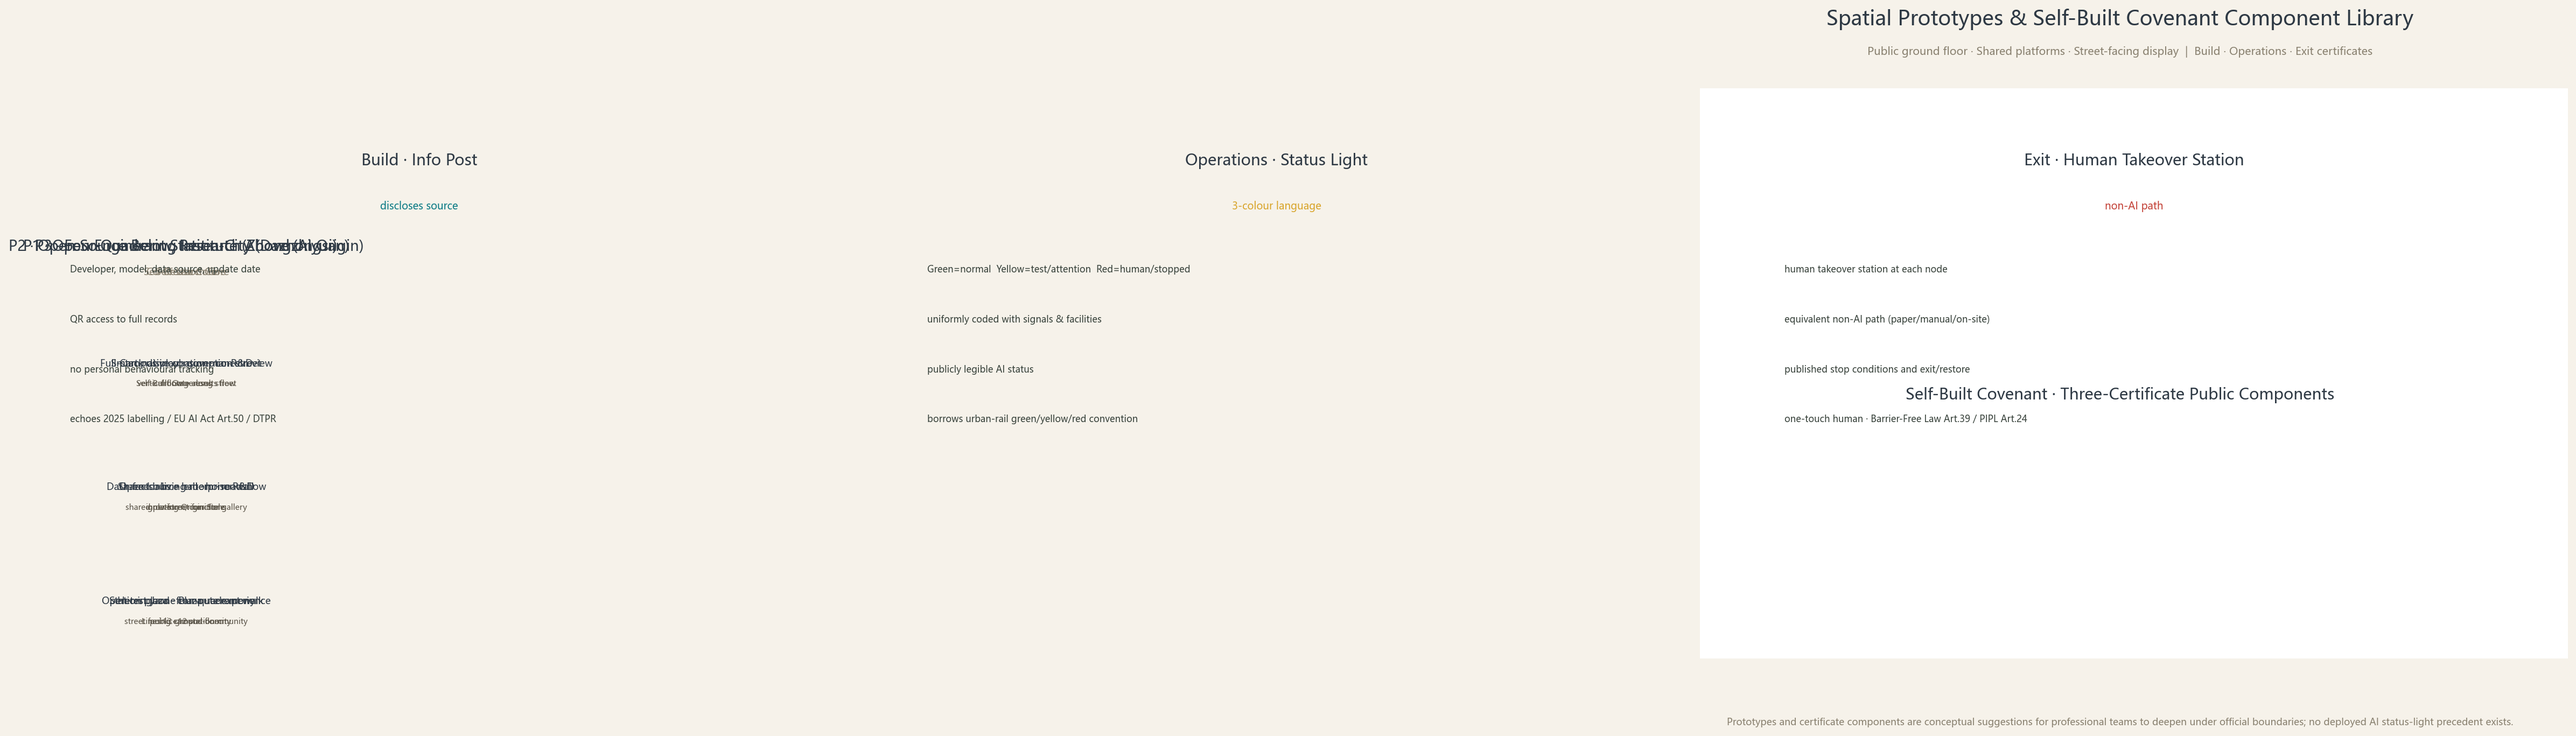
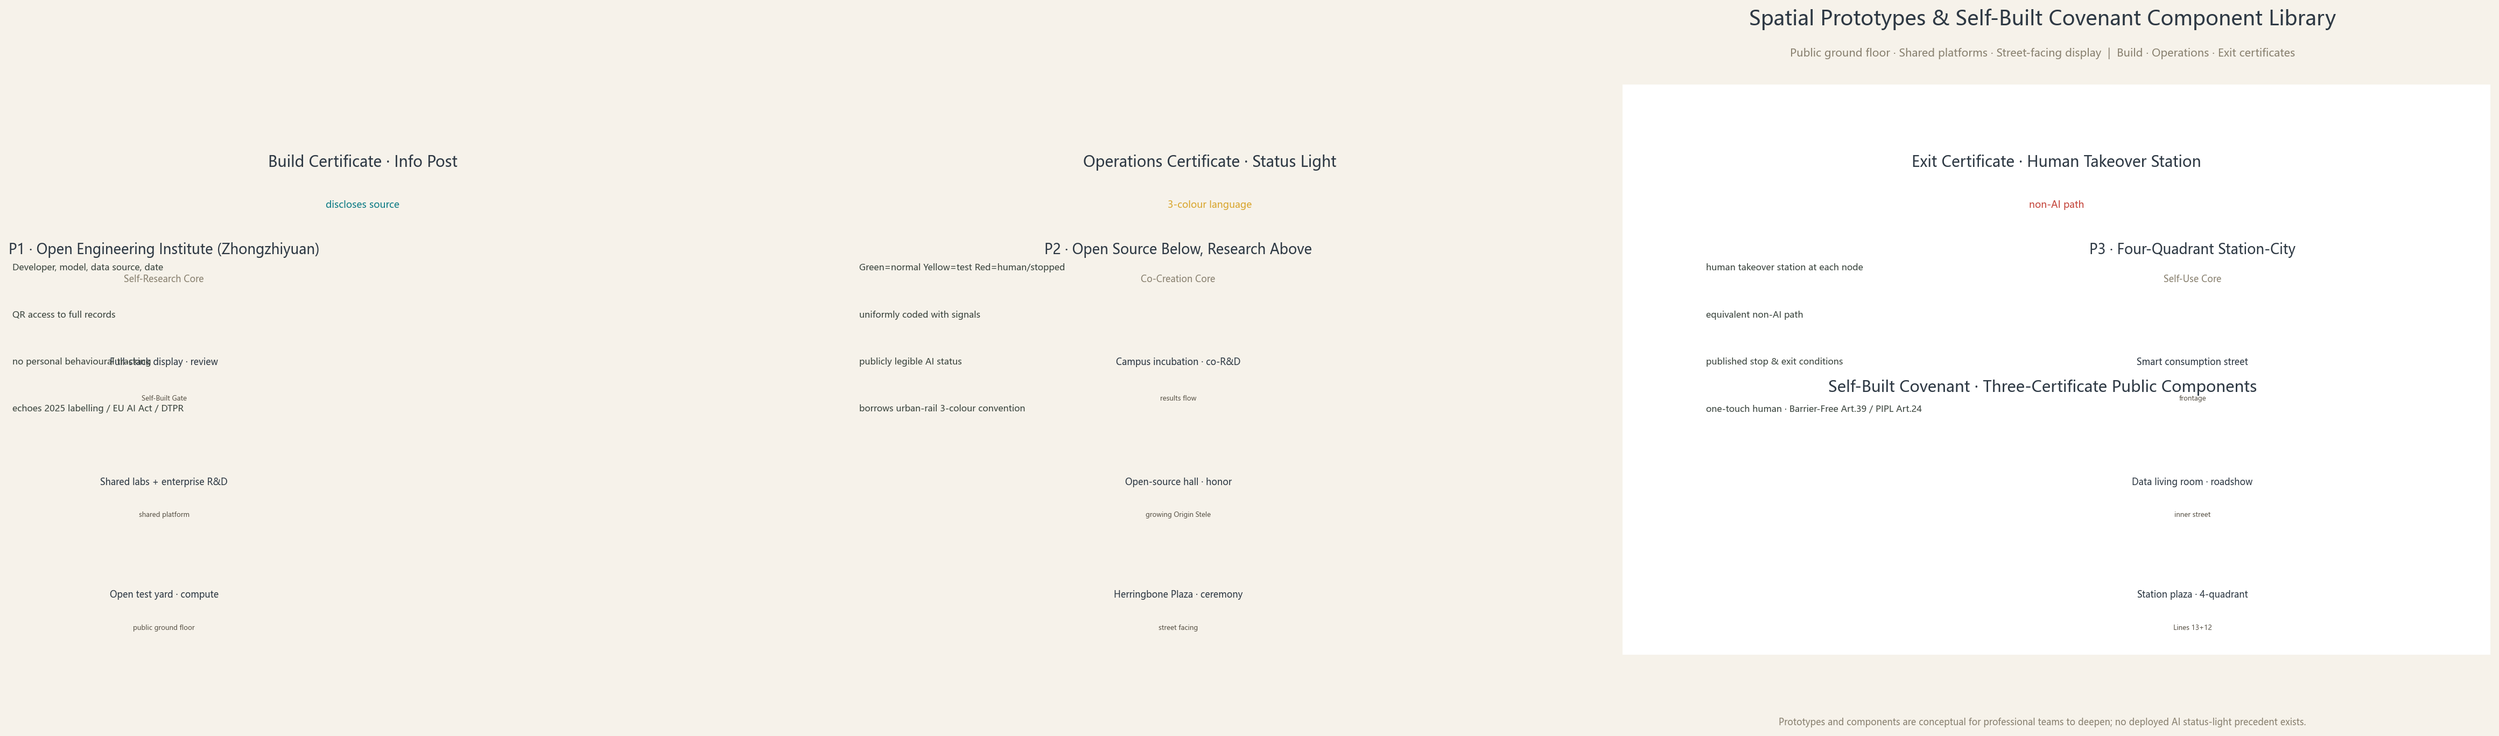
Fix visual issues: spatial-prototypes figure x-overlap + add land-use image to Land Use card
- Regenerated spatial-prototypes figure: three prototype panels no longer overlap (x-offset fix), tightened labels
- Added land-use-structure image to the Land Use card in visual/index.html and index.en.html
- Four-gate self-check PASS

diff --git a/submissions/ParticleLight/jingzhang-self-built/visual/index.en.html b/submissions/ParticleLight/jingzhang-self-built/visual/index.en.html
@@ -89,6 +89,7 @@
   <section class="card">
     <h2><span class="badge">05</span> Land Use</h2>
     <p>One spine, five columns, nine bands: the Self-Built Spine in the middle with R&D, education, residential and commercial bands on both sides; 45 parcels provide seamless full coverage of the submitted boundary.</p>
+    <img src="../assets/figures/land-use-structure.en.png" alt="Land use structure diagram">
   </section>
   <section class="card">
     <h2><span class="badge">06</span> Mobility</h2>

diff --git a/submissions/ParticleLight/jingzhang-self-built/visual/index.html b/submissions/ParticleLight/jingzhang-self-built/visual/index.html
@@ -89,6 +89,7 @@
   <section class="card">
     <h2><span class="badge">05</span> 用地分区 Land Use</h2>
     <p>一带五列九段：自造脊居中，科研/教育/居住/商业按功能带布局，45 个用地分区无缝拼合、完整覆盖提交边界。</p>
+    <img src="../assets/figures/land-use-structure.png" alt="用地功能结构图 Land use structure">
   </section>
   <section class="card">
     <h2><span class="badge">06</span> 交通慢行 Mobility</h2>
